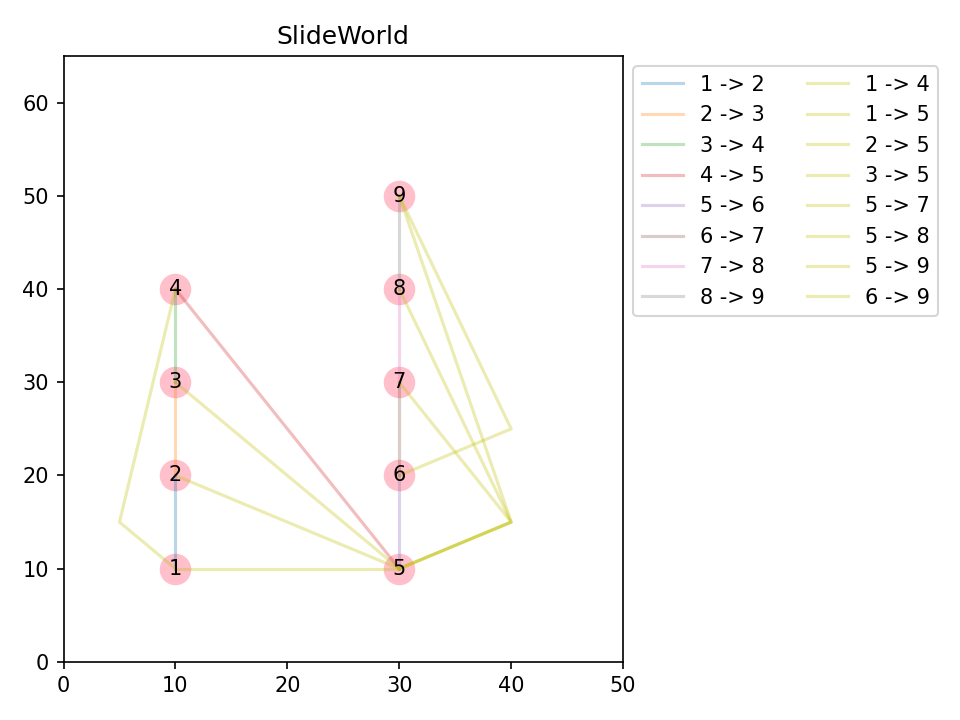
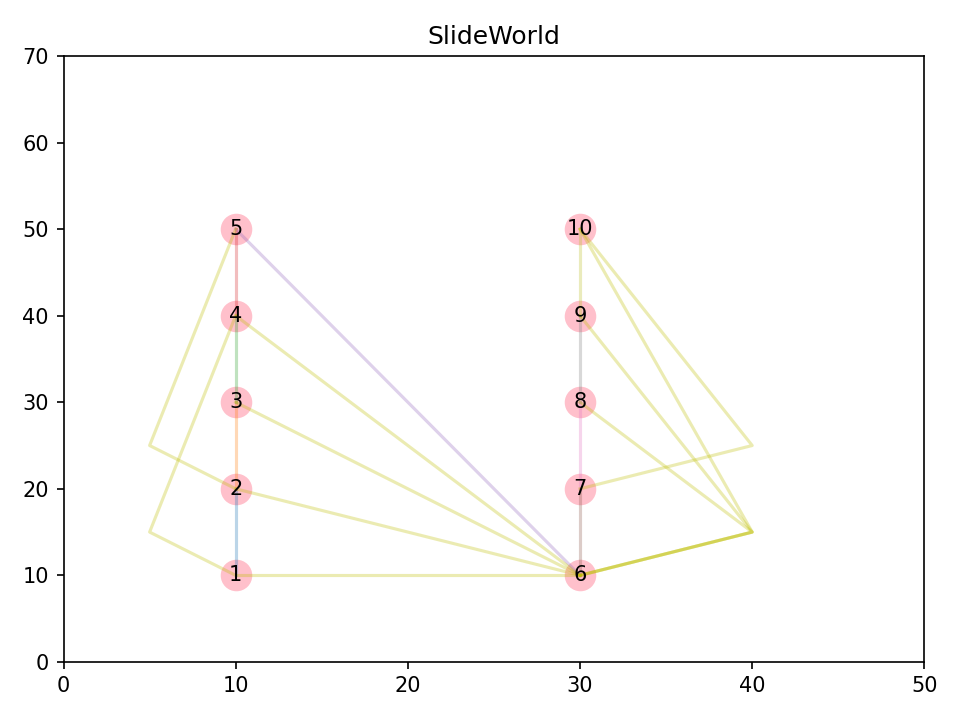
hw5

diff --git a/Homework5/hw5_exercise2.py b/Homework5/hw5_exercise2.py
@@ -47,9 +47,9 @@ from sys import argv
 import matplotlib.pyplot as plt #Run python -m pip install matplotlib
 
 class SlideWorld():
-    def __init__(self):
+    def __init__(self, nodes):
         self.slides = []
-        self.maxSlides = 8
+        self.nodes = nodes
         self.slideColor = 'pink'
         self.transitionSlideColor = 'red'
         self.transitionLineColor = 'y'
@@ -71,7 +71,7 @@ class SlideWorld():
             s2.directSlide = self.slides[index1 + 1]
             self.directSlides.insert(i, s2)
 
-            if index2 + 1 < self.maxSlides:
+            if index2 + 1 < self.nodes:
                 s3.directSlide = self.slides[index2 + 1]
                 #add related slides on the right
                 self.directSlides.append(s3)
@@ -79,7 +79,7 @@ class SlideWorld():
             #direct slides to transition point (left)
             self.addTransition(s2, s1)
             
-            if i < mid - 1 and mid + 2 + i < self.maxSlides:
+            if i < mid - 1 and mid + 2 + i < self.nodes:
                 #slides from transition point (right)
                 self.addTransition(s1, self.slides[mid + 2 + i])
 
@@ -88,8 +88,8 @@ class SlideWorld():
                 #find indirect slides on the left
                 self.addTransition(self.slides[index1], self.slides[j])
 
-            for j in range(index2 + 3, self.maxSlides, 3):
-                if j + 1 < self.maxSlides:
+            for j in range(index2 + 3, self.nodes, 3):
+                if j + 1 < self.nodes:
                     #find indirect slides on the right
                     self.addTransition(self.slides[index2 + 1], self.slides[j + 1])
 
@@ -136,17 +136,14 @@ class Slide():
     
     def __repr__(self):
         return str(self)
-    
-def main(argv):
-    #create a theme park, 
-    sw = SlideWorld()
-    if len(argv) > 1:
-        sw.maxSlides = int(argv[1])
 
-    mid = floor(sw.maxSlides / 2)
+def init(nodes):
+    #create a theme park, 
+    sw = SlideWorld(nodes)
+    mid = floor(nodes / 2)
 
     #dynamically create left and right slides
-    for i in range(0, sw.maxSlides):
+    for i in range(0, nodes):
         x = 10
         y = i
         if i > mid - 1:
@@ -156,6 +153,15 @@ def main(argv):
         sw.slides.append(s)
     
     sw.design(mid)
+    return sw
+    
+def main(argv):
+    nodes = 8 #14
+    if len(argv) > 1:
+        nodes = int(argv[1])
+    
+    sw = init(nodes)
+    mid = floor(nodes / 2)
     sw.develop(mid)
 
     print('Direct Slides:')
@@ -164,9 +170,9 @@ def main(argv):
     print('Transition Slides:')
     print(['{} -> {}'.format(s[0].level, s[1].level) for s in sw.transitionSlides])
 
-    print('Number of points:', sw.maxSlides, ' Total slides:', len(sw.directSlides) + len(sw.transitionSlides))
+    print('Number of points:', nodes, ' Total slides:', len(sw.directSlides) + len(sw.transitionSlides))
 
-    plt.axis([0, 50, 0, sw.maxSlides / 2 * 10 + 20])   
+    plt.axis([0, 50, 0, nodes / 2 * 10 + 20])   
     plt.title('SlideWorld')
     plt.legend(bbox_to_anchor=(1, 1), ncol=2)
     plt.tight_layout()

diff --git a/Homework5/hw5_exercise3.py b/Homework5/hw5_exercise3.py
@@ -1,0 +1,72 @@
+# -*- coding: utf-8 -*-
+"""
+Created on Thu Oct  8 14:03:23 2020
+
+@author: qin790
+"""
+import numpy as np
+
+
+def Slides(nodes, slides):
+    #base case
+    n = len(nodes)
+    if n ==1:
+        return
+    elif n ==2:
+        slides[nodes[0],nodes[1]]=1
+        return slides
+    
+    #divide two two halves
+    m = int(n/2)
+    first=nodes[:m]
+    second=nodes[m:n]
+    
+    #print ("first second", first, second)
+    #in second connect the first to all other nodes
+    for j in second:
+        if j != nodes[m]:
+            #print("second", nodes[m], j)
+            slides[nodes[m],j]=1
+    #connect all the nodes in the first to m
+    for i in first:
+        if i != m:
+            #print ("first", i, m)
+            slides[i,nodes[m]]=1
+
+    
+    Slides(first, slides) 
+    Slides(second, slides)
+    return slides
+
+def Check(slides, n):
+    for i in range(n):
+        for j in range (n):
+            if i >= j:
+                pass
+            
+            elif slides[i, j]==1 and j > i:
+                return True
+            else:
+                for m in range(n):
+                    if m > i and m < j:    
+                        if slides[i, m]+slides[m, j]== 2:
+                            return True
+                else:
+                    print("i, j", i, j)
+                    return False
+
+def main(n):
+    nodes=[i for i in range(n)]
+    slides = np.zeros((n,n))
+    return Slides(nodes, slides)
+
+if __name__ == '__main__':
+    n = 10
+    slides = main(n)
+    print (slides)
+    print ("total slides", np.sum(slides))
+
+    if Check(slides, n):
+        print("successful")
+    else:
+        print("not successfull")

diff --git a/Homework5/test.py b/Homework5/test.py
@@ -1,0 +1,34 @@
+import hw5_exercise2
+import hw5_exercise3
+
+for i in range(2, 15):
+    sw = hw5_exercise2.init(i)
+    slides = hw5_exercise3.main(i)
+    directSlides = []
+    transitionSlides = []
+    for r in range(0, i):
+        row = slides[r]
+        for c in range(0, len(row)):
+            if row[c] == 1:
+                if r + 1 == c:
+                    directSlides.append([r + 1, c + 1])
+                else:
+                    transitionSlides.append([r + 1, c + 1])
+    
+    directSlides1 = str(['{} -> {}'.format(s.level, s.directSlide.level) for s in sw.directSlides])
+    directSlides2 = str(['{} -> {}'.format(s[0], s[1]) for s in directSlides])
+    if directSlides1 != directSlides2:
+        print('Nodes:',  i)
+        print('Direct Slides 1 (New):')
+        print(directSlides1)
+        print('Direct Slides 2 (Old):')
+        print(directSlides1)
+
+    transitionSlides1 = str(['{} -> {}'.format(s[0].level, s[1].level) for s in sorted(sw.transitionSlides, key=lambda s: (s[0].level, s[1].level))]) 
+    transitionSlides2 = str(['{} -> {}'.format(s[0], s[1]) for s in transitionSlides])
+    if transitionSlides1 != transitionSlides2:
+        print('Nodes:',  i)
+        print('Transition Slides 1 (New):')
+        print(transitionSlides1)
+        print('Transition Slides 2 (Old):')
+        print(transitionSlides2)
